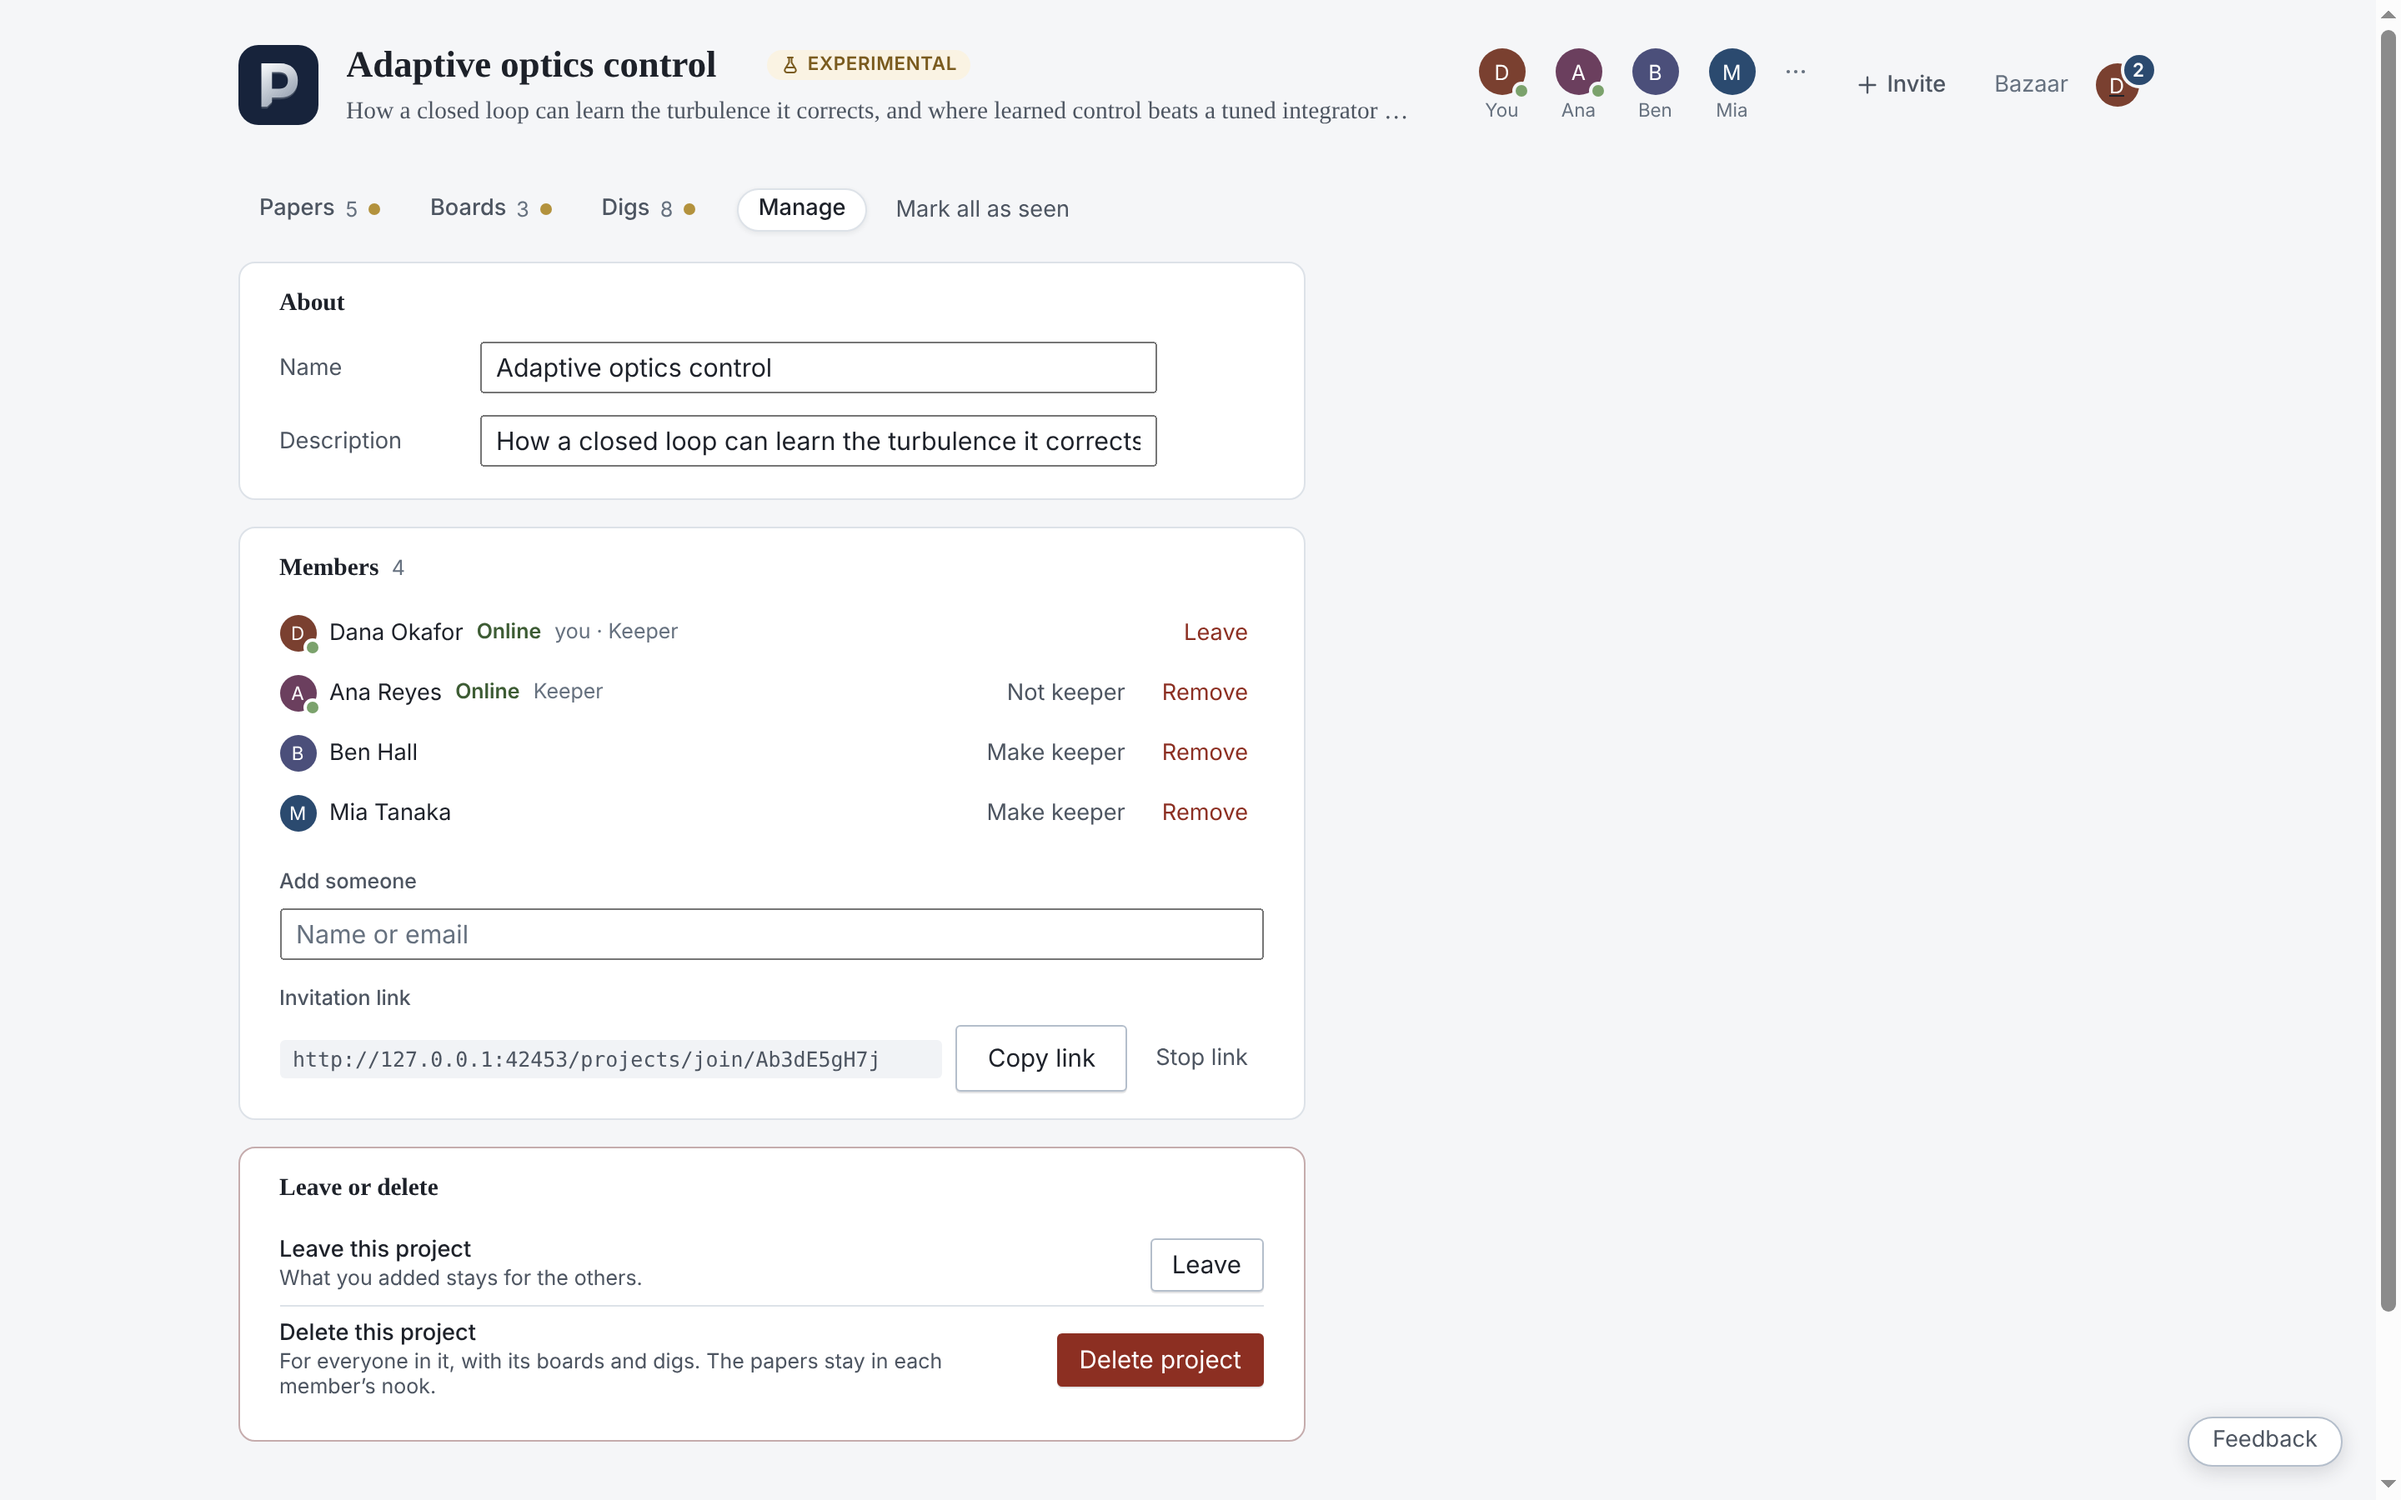
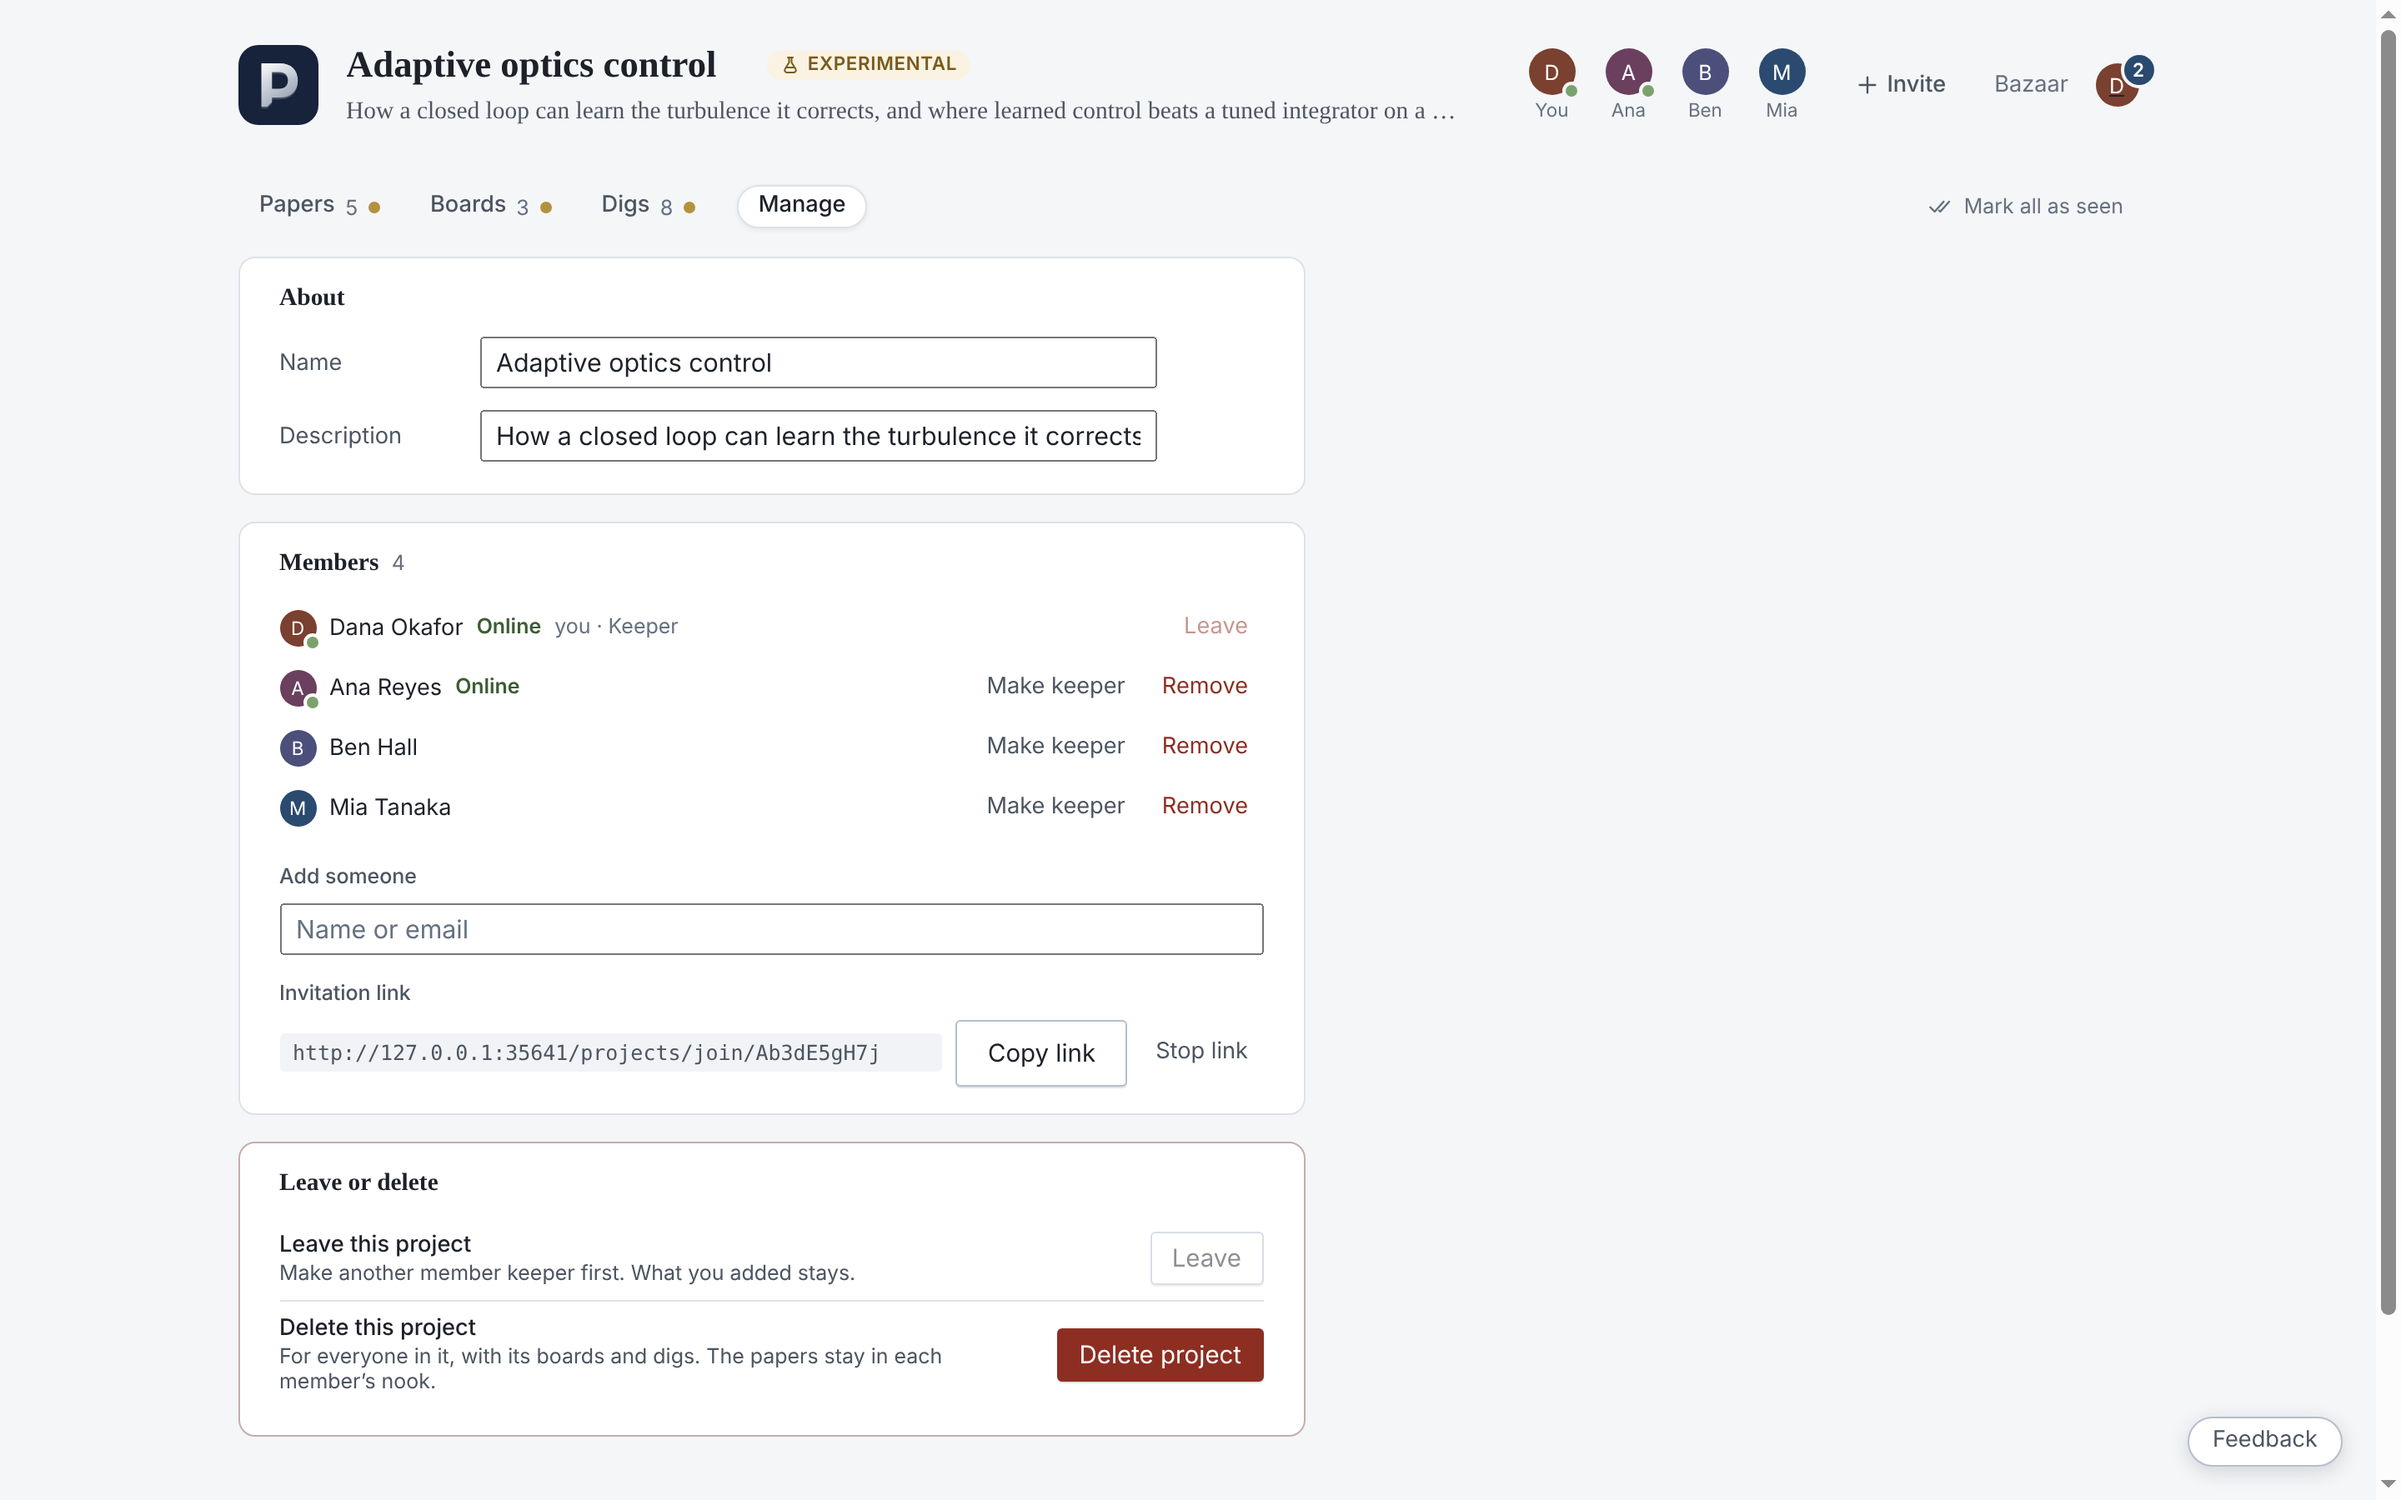
Projects: one keeper; Make keeper hands it on
A project has exactly one keeper. Making a member keeper hands keeping
to them (asked first) and the old keeper stays a member; there is no
Not keeper. The keeper of a project others are in leaves only after
handing it on. The server refuses taking keeping away, and a unique
partial index holds one keeper per project. Migration 0035 keeps the
earliest-joined keeper where a project had several; the others stay on
as members. A closing account's memberships go before its projects are
handed on, so a project never has two keepers for a moment.

Claude-Session: https://claude.ai/code/session_01PQZzMVGNz4upo86s9b4ZAB

diff --git a/frontend/src/components/ProjectPage.jsx b/frontend/src/components/ProjectPage.jsx
@@ -444,8 +444,18 @@ function People({ project, showing, currentUser, act, onLeft, onClose }) {
 }
 
 // Who is in the project, each with what can be done about them: you can
-// leave, and a keeper makes others keepers or removes them. In Manage.
+// leave, and the keeper hands keeping to someone else or removes them. A
+// project has one keeper, so making someone keeper is handing it on,
+// asked first. In Manage.
 export function MemberList({ project, currentUser, act, onLeave }) {
+  const stuck = keeperStays(project);
+  const handOn = async (user) => {
+    const ok = await confirmAction(
+      `Make ${user.display_name} the keeper of ${project.name}?\n\nA project has one keeper. You stay a member, and only ${firstName(user)} can rename it, invite people or delete it.`,
+      { confirmLabel: 'Make keeper' },
+    );
+    if (ok) await act(() => setKeeper(project.uuid, user.uuid, true));
+  };
   return (
     <ul className="project-people-list">
       {project.members.map((member) => {
@@ -462,12 +472,13 @@ export function MemberList({ project, currentUser, act, onLeave }) {
             )}
             {me ? (
               <span className="project-person-actions">
-                <button type="button" className="project-quiet project-danger" onClick={onLeave}>Leave</button>
+                <button type="button" className="project-quiet project-danger" onClick={onLeave}
+                  disabled={stuck} title={stuck ? 'Make another member keeper first' : undefined}>Leave</button>
               </span>
             ) : project.is_keeper && (
               <span className="project-person-actions">
-                <button type="button" className="project-quiet" onClick={() => act(() => setKeeper(project.uuid, member.user.uuid, !member.is_keeper))}>
-                  {member.is_keeper ? 'Not keeper' : 'Make keeper'}
+                <button type="button" className="project-quiet" onClick={() => handOn(member.user)}>
+                  Make keeper
                 </button>
                 <button type="button" className="project-quiet project-danger" onClick={() => act(async () => { await removeMember(project.uuid, member.user.uuid); return getProject(project.uuid); })}>
                   Remove
@@ -479,6 +490,11 @@ export function MemberList({ project, currentUser, act, onLeave }) {
       })}
     </ul>
   );
+}
+
+// The keeper of a project others are in leaves only after handing it on.
+function keeperStays(project) {
+  return Boolean(project.is_keeper) && project.members.length > 1;
 }
 
 // Leaving, asked first. The last member to leave ends the project.
@@ -615,7 +631,7 @@ function ProjectManage({ project, currentUser, act, onRename, onDescribe, onLeft
           maxLength={appLimits.text.project_description} placeholder="What the project is about"
           onKeep={onDescribe}
         />
-        {!keeper && <p className="project-manage-note">Only a keeper ({keeperNames(project.members)}) can change these.</p>}
+        {!keeper && <p className="project-manage-note">Only the keeper, {keeperNames(project.members)}, can change these.</p>}
       </section>
       <section className="project-manage-section" aria-labelledby="project-manage-members">
         <h3 id="project-manage-members">Members <span className="project-manage-count">{project.members.length}</span></h3>
@@ -634,9 +650,9 @@ function ProjectManage({ project, currentUser, act, onRename, onDescribe, onLeft
         <div className="project-manage-row">
           <div>
             <strong>Leave this project</strong>
-            <p>{project.members.length === 1 ? 'You are its last member, so leaving ends it.' : 'What you added stays for the others.'}</p>
+            <p>{project.members.length === 1 ? 'You are its last member, so leaving ends it.' : keeper ? 'Make another member keeper first. What you added stays.' : 'What you added stays for the others.'}</p>
           </div>
-          <button type="button" onClick={() => leaveProject({ project, currentUser, act, onLeft })}>Leave</button>
+          <button type="button" disabled={keeperStays(project)} onClick={() => leaveProject({ project, currentUser, act, onLeft })}>Leave</button>
         </div>
         {keeper && (
           <div className="project-manage-row">

diff --git a/cloudflare/src/routes/projects.ts b/cloudflare/src/routes/projects.ts
@@ -1,6 +1,6 @@
 // Projects: where work on a question happens, by one person or several.
 //
-// A project holds papers, not copies, and its members, some of whom keep
+// A project holds papers, not copies, and its members, one of whom keeps
 // it. Every signed-in user can see that a project exists, what it is
 // called and who is in it, keepers marked, so they know whom to ask; only
 // members can open it, and joining is by invitation alone. Joining is
@@ -409,7 +409,7 @@ async function leaving(env: Env, project: Project, member: Member): Promise<D1Pr
     project.uuid, member.user_uuid));
   const out = statement(env.DB, "DELETE FROM project_members WHERE uuid = ?", member.uuid);
   if (!others.length) return [out, statement(env.DB, "UPDATE projects SET deleted_at = ?, invite_code = NULL, updated_at = ? WHERE uuid = ?", now(), now(), project.uuid)];
-  if (member.is_keeper && !others.some((m) => m.is_keeper)) refuse(400, "Make another member a keeper first");
+  if (member.is_keeper) refuse(400, "Make another member keeper first");
   return [out, touched(env, project)];
 }
 
@@ -609,12 +609,16 @@ export function projectRoutes(router: Router) {
     check.done();
     const member = await one<Member>(env.DB, "SELECT * FROM project_members WHERE project_uuid = ? AND user_uuid = ?", project.uuid, params.user);
     if (!member) refuse(404, "Not a member of this project");
-    if (!isKeeper && member.is_keeper) {
-      const keepers = await one<{ n: number }>(env.DB, "SELECT count(*) AS n FROM project_members WHERE project_uuid = ? AND is_keeper = 1", project.uuid);
-      if (keepers!.n <= 1) refuse(400, "A project needs a keeper");
-    }
-    await batch(env.DB, [statement(env.DB, "UPDATE project_members SET is_keeper = ? WHERE uuid = ?", isKeeper ? 1 : 0, member.uuid), touched(env, project)]);
-    return json(await projectOut(env, project, me, member.uuid === mine.uuid ? { ...mine, is_keeper: isKeeper ? 1 : 0 } : mine));
+    // A project has one keeper. Making someone keeper hands it to them;
+    // the keeper stops being one only by handing it on.
+    if (!isKeeper) refuse(400, member.is_keeper ? "A project has one keeper: make another member keeper to hand it on" : "Not the keeper");
+    if (member.is_keeper) return json(await projectOut(env, project, me, mine));
+    await batch(env.DB, [
+      statement(env.DB, "UPDATE project_members SET is_keeper = 0 WHERE project_uuid = ? AND is_keeper = 1", project.uuid),
+      statement(env.DB, "UPDATE project_members SET is_keeper = 1 WHERE uuid = ?", member.uuid),
+      touched(env, project),
+    ]);
+    return json(await projectOut(env, project, me, { ...mine, is_keeper: 0 }));
   });
 
   // Leaving, or a keeper removing someone. What they added stays.
@@ -853,7 +857,9 @@ export async function handOnProjectBoards(env: Env, userUuid: string): Promise<n
 // that a project must not be stuck without a keeper: the earliest to have
 // joined of those left is given it.
 export async function leaveAllProjects(env: Env, userUuid: string): Promise<D1PreparedStatement[]> {
-  const statements: D1PreparedStatement[] = [];
+  // Their memberships go first, so the one keeper a project may have is
+  // never two for a moment.
+  const statements: D1PreparedStatement[] = [statement(env.DB, "DELETE FROM project_members WHERE user_uuid = ?", userUuid)];
   for (const member of await all<Member>(env.DB, "SELECT * FROM project_members WHERE user_uuid = ?", userUuid)) {
     const others = await all<Member>(env.DB, "SELECT * FROM project_members WHERE project_uuid = ? AND user_uuid != ? ORDER BY joined_at, uuid",
       member.project_uuid, userUuid);
@@ -863,6 +869,5 @@ export async function leaveAllProjects(env: Env, userUuid: string): Promise<D1Pr
       statements.push(statement(env.DB, "UPDATE project_members SET is_keeper = 1 WHERE uuid = ?", others[0].uuid));
     }
   }
-  statements.push(statement(env.DB, "DELETE FROM project_members WHERE user_uuid = ?", userUuid));
   return statements;
 }

diff --git a/cloudflare/test/projects.test.ts b/cloudflare/test/projects.test.ts
@@ -309,6 +309,21 @@ describe("people going", () => {
     expect((await call("GET", `/api/projects/${project.uuid}`, { headers: ana.headers })).status).toBe(404);
   });
 
+  it("has one keeper: making someone keeper hands it on, and a keeper cannot just stop", async () => {
+    const dana = await register(), ana = await register(), ben = await register();
+    const project = await start(dana);
+    await invite(dana, project, ana, ben);
+    expect((await call("PUT", `/api/projects/${project.uuid}/members/${dana.uuid}`, { headers: dana.headers, json: { is_keeper: false } })).status).toBe(400);
+    const handed = await ok("PUT", `/api/projects/${project.uuid}/members/${ana.uuid}`, { headers: dana.headers, json: { is_keeper: true } });
+    expect(handed.is_keeper).toBe(false);
+    expect(handed.members.filter((m: any) => m.is_keeper).map((m: any) => m.user.uuid)).toEqual([ana.uuid]);
+    // The old keeper is a member now, and cannot hand it on again.
+    expect((await call("PUT", `/api/projects/${project.uuid}/members/${ben.uuid}`, { headers: dana.headers, json: { is_keeper: true } })).status).toBe(403);
+    expect(await row("SELECT count(*) AS n FROM project_members WHERE project_uuid = ? AND is_keeper = 1", project.uuid)).toEqual({ n: 1 });
+    // The database holds it too.
+    await expect(env.DB.prepare("UPDATE project_members SET is_keeper = 1 WHERE project_uuid = ? AND user_uuid = ?").bind(project.uuid, ben.uuid).run()).rejects.toThrow();
+  });
+
   it("leaves the papers someone added, and only the adder or a keeper takes one out", async () => {
     const dana = await register(), ana = await register(), ben = await register();
     const project = await start(dana);

diff --git a/frontend/src/projectManage.test.js b/frontend/src/projectManage.test.js
@@ -31,3 +31,12 @@ test('Manage holds the name, description, members, invitation and leaving', () =
     assert.ok(manage.includes(piece), piece);
   }
 });
+
+test('a project has one keeper: Make keeper hands it on, asked first, and there is no Not keeper', () => {
+  const list = page.slice(page.indexOf('export function MemberList'), page.indexOf('// The keeper of a project others are in'));
+  assert.doesNotMatch(page, /Not keeper/);
+  assert.match(list, /confirmAction\([\s\S]*A project has one keeper[\s\S]*confirmLabel: 'Make keeper'/);
+  assert.match(list, /if \(ok\) await act\(\(\) => setKeeper\(project\.uuid, user\.uuid, true\)\)/);
+  assert.match(page, /function keeperStays\(project\) \{\s*return Boolean\(project\.is_keeper\) && project\.members\.length > 1;/);
+  assert.match(list, /disabled=\{stuck\}/);
+});
